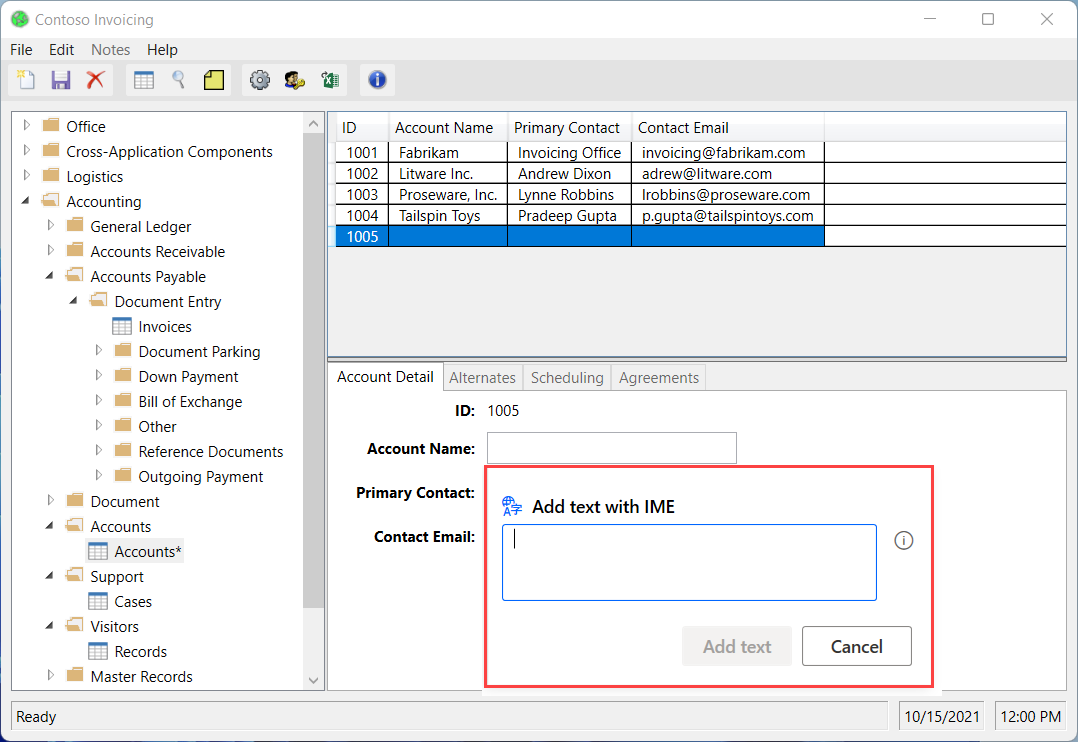
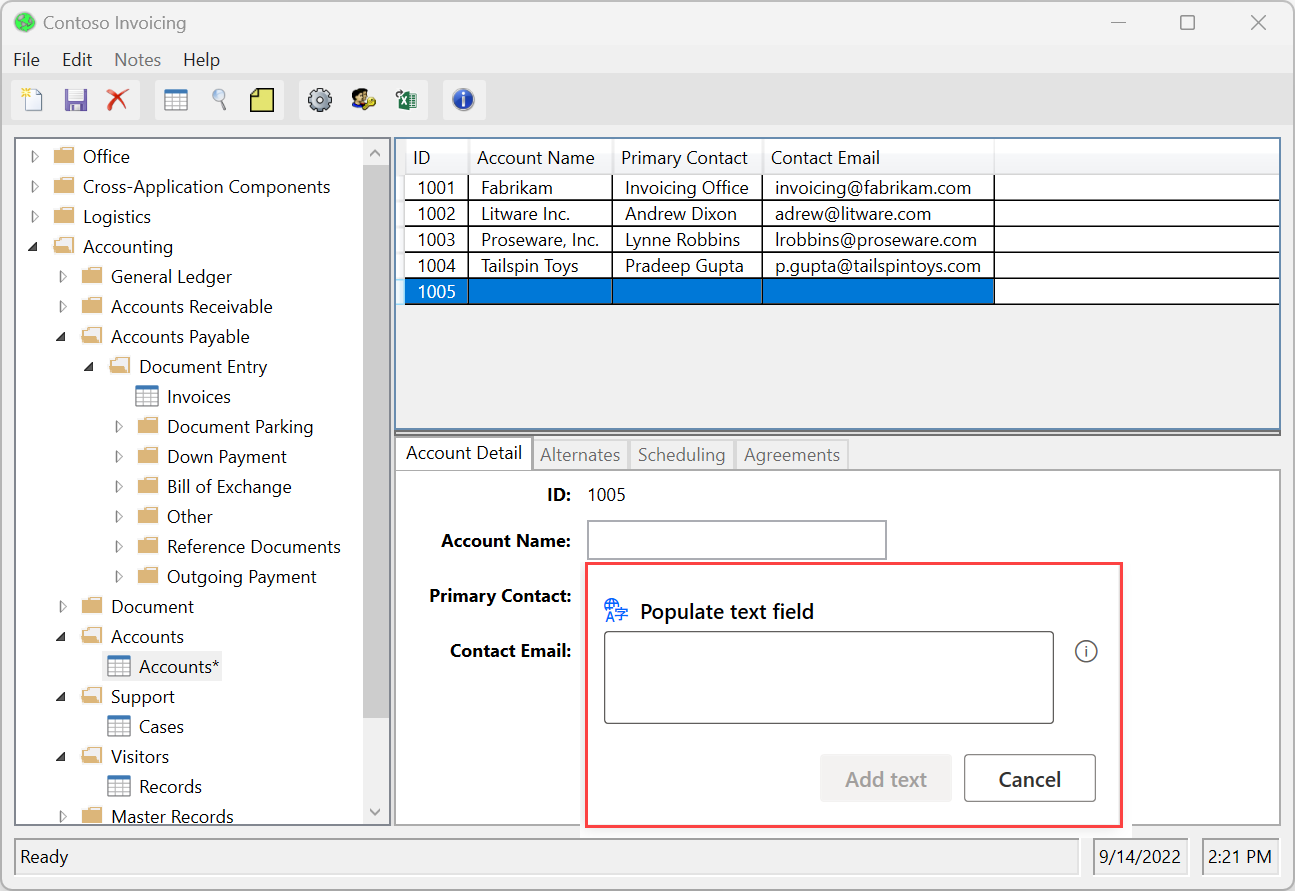
Updates regarding populating texts with IMEs

Changed region(s): [[0.0, 0.0, 1.0, 1.0], [0.8571, 0.0, 1.0, 0.031], [0.8265, 0.7129, 0.8571, 0.7439]]

diff --git a/articles/desktop-flows/recording-flow.md b/articles/desktop-flows/recording-flow.md
@@ -1,6 +1,6 @@
 ---
-title: Recording in a desktop flow | Microsoft Docs
-description: Recording in a desktop flow
+title: Record desktop flows | Microsoft Docs
+description: Record desktop flows
 author: georgiostrantzas
 ms.subservice: desktop-flow
 ms.topic: article
@@ -13,7 +13,7 @@ search.audienceType:
   - flowmaker
   - enduser
 ---
-# Record flows in Power Automate Desktop
+# Record desktop flows
 
 Power Automate for desktop enables you to design flows automatically by replicating the task you wish to automate.
 
@@ -105,9 +105,9 @@ Input Method Editors (IMEs) are software components that enable users to input t
 
 Power Automate for desktop supports the use of IMEs during the flow recording procedure. To populate a text field using an IME:
 
-1. Right-click on the text field and select **Add text with IME** on the displayed menu.
+1. Right-click on the text field and select **Populate text field** on the displayed menu.
 
-    ![Screenshot of the Add text with IME menu option.](./media/recording-flow/add-text-with-ime-option.png)
+    ![Screenshot of the Populate text field menu option.](./media/recording-flow/add-text-with-ime-option.png)
 
 1. Populate the popup dialog with the desired text using an IME.
 
